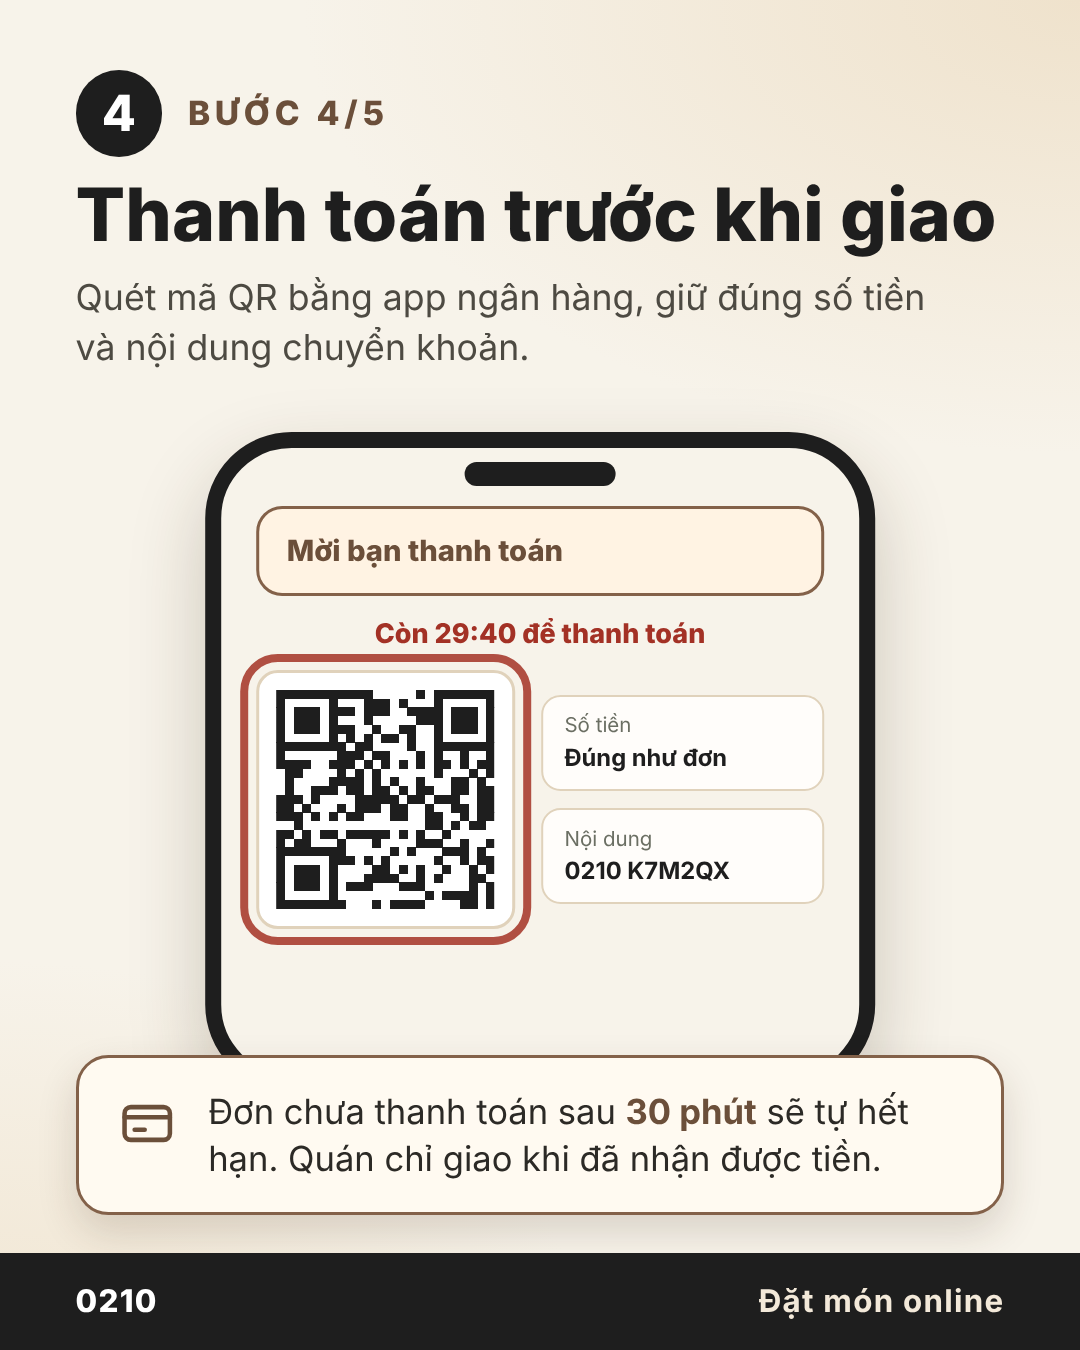
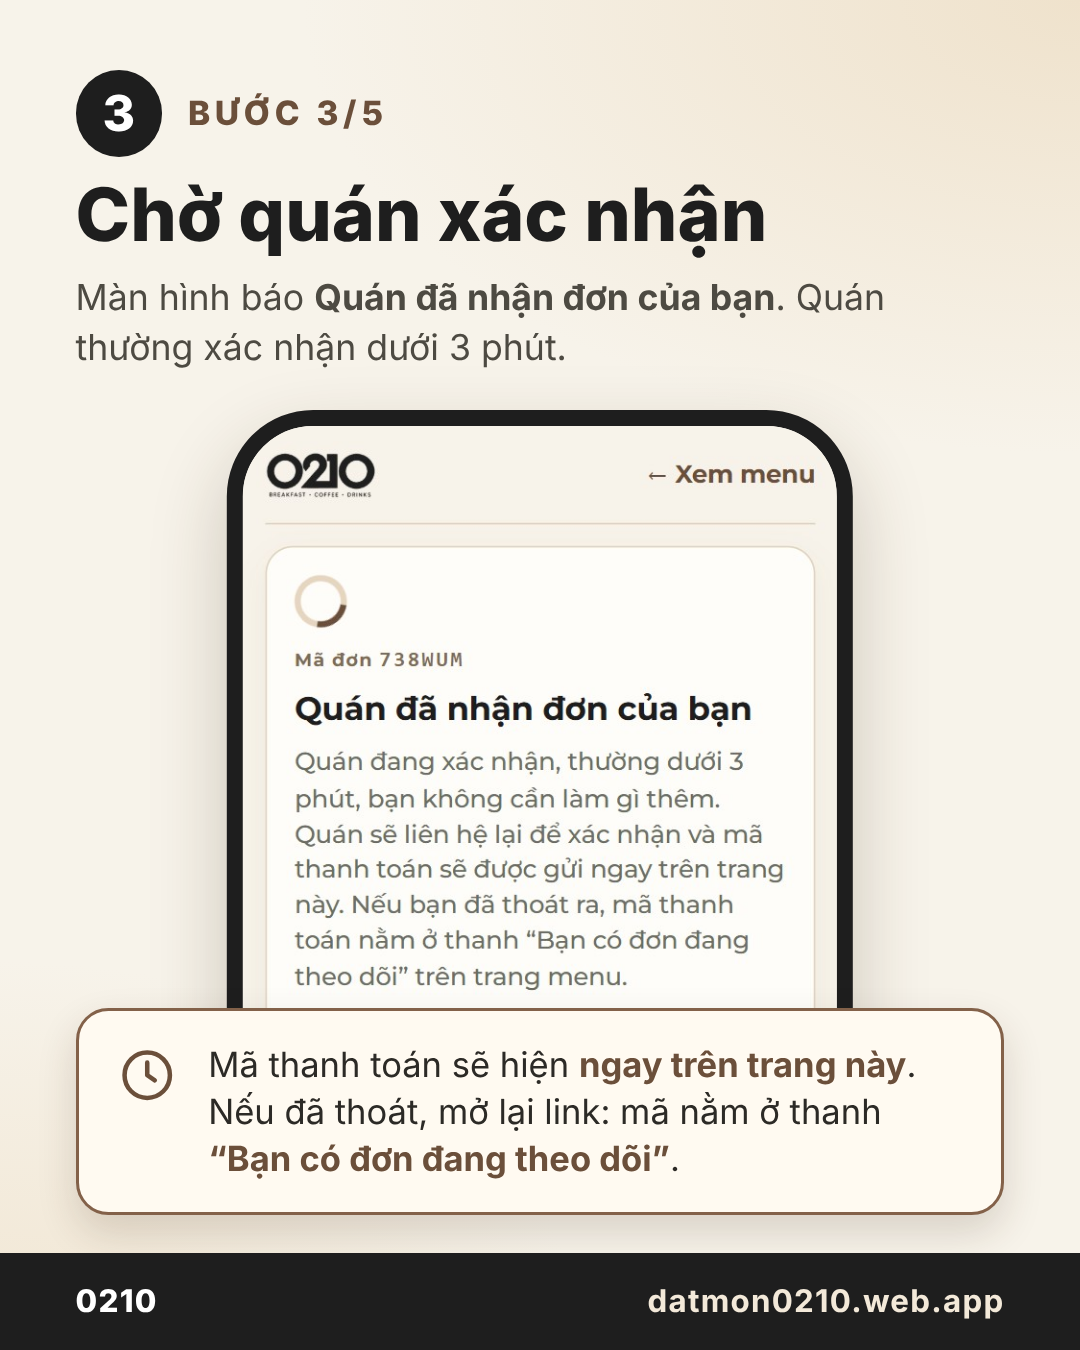
Hướng dẫn đặt món: dùng ảnh chụp giao diện thật của link đặt món; sửa nút Hướng dẫn tràn dòng khi có Lịch sử đơn
Claude-Session: https://claude.ai/code/session_01HiDfvM3Z7rjLptNeq3yxWC

diff --git a/web-order/public/huong-dan.html b/web-order/public/huong-dan.html
@@ -51,9 +51,11 @@
     .note p { margin: 0; font-size: 3.2cqw; line-height: 1.36; color: #2c2a26; }
     .note b { color: var(--accent); }
 
-    /* điện thoại (cắt ở đáy thẻ) */
-    .phone { position: absolute; left: 50%; transform: translateX(-50%); top: 40cqw; width: 62cqw; height: 61cqw; border-radius: 8cqw; border: 1.5cqw solid #1e1e1e; background: var(--bg); overflow: hidden; box-shadow: 0 3cqw 7cqw rgba(60, 40, 20, .22); }
-    .phone::before { content: ""; position: absolute; left: 50%; top: 1.3cqw; transform: translateX(-50%); width: 14cqw; height: 2.2cqw; border-radius: 2cqw; background: #1e1e1e; z-index: 3; }
+    /* điện thoại (cắt ở đáy thẻ); ảnh bên trong là chụp màn hình thật của trang đặt món */
+    .phone img { display: block; width: 100%; height: 100%; object-fit: cover; object-position: top; }
+    .note small { font-size: 2.6cqw; color: #6b6f63; }
+    .phone { position: absolute; left: 50%; transform: translateX(-50%); top: 38cqw; width: 58cqw; height: 64cqw; border-radius: 8cqw; border: 1.5cqw solid #1e1e1e; background: var(--bg); overflow: hidden; box-shadow: 0 3cqw 7cqw rgba(60, 40, 20, .22); }
+    .phone::before { content: none; }
     .ph { padding: 5.4cqw 3.2cqw 0; font-size: 2.5cqw; line-height: 1.3; display: grid; gap: 1.8cqw; }
     .ph-bar { display: flex; align-items: center; gap: 1.6cqw; }
     .ph-bar img { height: 4.2cqw; width: auto; }
@@ -164,117 +166,83 @@
         <div class="s-foot"><b>0210</b><span>datmon0210.web.app</span></div>
       </section>
 
-      <!-- 1 -->
-      <section class="slide" aria-label="Bước 1: Chọn món">
+            <section class="slide" aria-label="Bước 1: Chọn món">
         <div class="s-head">
           <div class="s-step"><i>1</i> BƯỚC 1/5</div>
           <h2 class="s-title">Chọn món bạn thích</h2>
-          <p class="s-sub">Mở link đặt món, chọn nhóm món rồi bấm <b>Thêm</b> ở món muốn gọi.</p>
+          <p class="s-sub">Mở link đặt món, chạm dấu <b>+</b> ở món muốn gọi. Bấm thêm lần nữa để tăng số lượng.</p>
         </div>
-        <div class="phone">
-          <div class="ph">
-            <div class="ph-bar"><img src="assets/logo.png" alt="" /><span>Lịch sử đơn</span></div>
-            <div class="ph-chips"><b class="on">Bán chạy</b><b>Cơm</b><b>Bún phở</b><b>Đồ uống</b></div>
-            <div class="dish"><div class="im"></div><div><h4>Cơm gà chiên mắm</h4><span class="sk w1"></span></div><span class="stp"><i>−</i>2<i>+</i></span></div>
-            <div class="dish"><div class="im"></div><div><h4>Cơm bò sốt tiêu</h4><span class="sk w1"></span></div><span class="add ring">Thêm</span></div>
-            <div class="dish"><div class="im"></div><div><h4>Trà chanh nha đam</h4><span class="sk w1"></span></div><span class="add">Thêm</span></div>
-            <div class="dish"><div class="im"></div><div><h4>Bạc xỉu</h4><span class="sk w1"></span></div><span class="add">Thêm</span></div>
-          </div>
-          <div class="cartbar"><div><small>2 món</small><b>Tạm tính</b></div><em class="ring">Xem giỏ &amp; đặt</em></div>
-        </div>
+        <div class="phone"><img src="assets/guide/shot-menu.jpg" alt="Trang menu của 0210 với món đã thêm vào giỏ" /></div>
         <div class="note"><svg viewBox="0 0 24 24" fill="none" stroke="currentColor" stroke-width="1.8" stroke-linecap="round" stroke-linejoin="round" aria-hidden="true"><circle cx="9" cy="20" r="1.3"/><circle cx="18" cy="20" r="1.3"/><path d="M3 4h3l2.4 11h10l2-8H7"/></svg><p>Chọn xong, bấm <b>Xem giỏ &amp; đặt</b> ở thanh dưới màn hình để kiểm tra lại đơn.</p></div>
-        <div class="s-foot"><b>0210</b><span>Đặt món online</span></div>
+        <div class="s-foot"><b>0210</b><span>datmon0210.web.app</span></div>
       </section>
 
-      <!-- 2 -->
-      <section class="slide" aria-label="Bước 2: Nhập thông tin và gửi đơn">
+      <section class="slide" aria-label="Bước 2: Nhập thông tin">
         <div class="s-head">
           <div class="s-step"><i>2</i> BƯỚC 2/5</div>
-          <h2 class="s-title">Nhập thông tin &amp; gửi đơn</h2>
-          <p class="s-sub">Điền tên, số điện thoại, chọn cách nhận món rồi bấm <b>Gửi đơn</b>.</p>
+          <h2 class="s-title">Nhập thông tin nhận món</h2>
+          <p class="s-sub">Điền tên, số điện thoại và chọn cách nhận món.</p>
         </div>
-        <div class="phone">
-          <div class="ph">
-            <div class="two"><div class="fld">Tên của bạn<div class="inp">Lan</div></div><div class="fld">Số điện thoại<div class="inp">0912 345 678</div></div></div>
-            <div class="fld">Nhận món<div class="radios"><span>Mang đi / tại quán</span><span class="on ring">Giao tận nơi</span></div></div>
-            <div class="fld">Địa chỉ giao hàng<div class="inp">Số nhà, đường, phường/xã…</div></div>
-            <div class="send ring">Gửi đơn</div>
-          </div>
-        </div>
-        <div class="note"><svg viewBox="0 0 24 24" fill="none" stroke="currentColor" stroke-width="1.8" stroke-linecap="round" stroke-linejoin="round" aria-hidden="true"><path d="M12 3a9 9 0 1 0 0 18 9 9 0 0 0 0-18zM12 8v5M12 16.5v.1"/></svg><p>Chưa phải trả tiền ngay. <b>Gửi đơn</b> chỉ là báo cho quán biết bạn muốn đặt những món gì.</p></div>
-        <div class="s-foot"><b>0210</b><span>Đặt món online</span></div>
+        <div class="phone"><img src="assets/guide/shot-form-1.jpg" alt="Form nhập tên, số điện thoại, hình thức nhận món" /></div>
+        <div class="note"><svg viewBox="0 0 24 24" fill="none" stroke="currentColor" stroke-width="1.8" stroke-linecap="round" stroke-linejoin="round" aria-hidden="true"><circle cx="12" cy="12" r="9"/><path d="M12 8v5M12 16.5v.1"/></svg><p>Chọn <b>Giao tận nơi</b> thì nhập thêm địa chỉ. Chọn <b>Mang đi / tại quán</b> thì không cần địa chỉ.</p></div>
+        <div class="s-foot"><b>0210</b><span>datmon0210.web.app</span></div>
       </section>
 
-      <!-- 3 -->
-      <section class="slide" aria-label="Bước 3: Quán xác nhận đơn">
+      <section class="slide" aria-label="Bước 2: Gửi đơn">
+        <div class="s-head">
+          <div class="s-step"><i>2</i> BƯỚC 2/5 · TIẾP</div>
+          <h2 class="s-title">Đồng ý &amp; bấm Gửi đơn</h2>
+          <p class="s-sub">Tích đồng ý chính sách rồi bấm nút <b>Gửi đơn</b> màu đen.</p>
+        </div>
+        <div class="phone"><img src="assets/guide/shot-form-2.jpg" alt="Ô đồng ý và nút Gửi đơn" /></div>
+        <div class="note"><svg viewBox="0 0 24 24" fill="none" stroke="currentColor" stroke-width="1.8" stroke-linecap="round" stroke-linejoin="round" aria-hidden="true"><circle cx="12" cy="12" r="9"/><path d="M12 8v5M12 16.5v.1"/></svg><p>Chưa phải trả tiền ngay. <b>Gửi đơn</b> chỉ là báo cho quán biết bạn muốn đặt những món gì.</p></div>
+        <div class="s-foot"><b>0210</b><span>datmon0210.web.app</span></div>
+      </section>
+
+      <section class="slide" aria-label="Bước 3: Chờ quán xác nhận">
         <div class="s-head">
           <div class="s-step"><i>3</i> BƯỚC 3/5</div>
           <h2 class="s-title">Chờ quán xác nhận</h2>
-          <p class="s-sub">Quán thường xác nhận trong vòng 3 phút. Bạn không cần làm gì thêm.</p>
+          <p class="s-sub">Màn hình báo <b>Quán đã nhận đơn của bạn</b>. Quán thường xác nhận dưới 3 phút.</p>
         </div>
-        <div class="phone">
-          <div class="ph">
-            <div class="status">Quán đã nhận đơn của bạn</div>
-            <div class="code">#K7M2QX</div>
-            <div><div class="prog"><i class="now"></i><u></u><i></i><u></u><i></i><u></u><i></i></div><div class="prog-l"><span>Đã gửi</span><span>Thanh toán</span><span>Làm món</span><span>Giao</span></div></div>
-            <div class="row2"><span>Món</span><b>2 món</b></div>
-            <div class="row2"><span>Trạng thái</span><b>Chờ quán xác nhận</b></div>
-          </div>
-        </div>
-        <div class="note"><svg viewBox="0 0 24 24" fill="none" stroke="currentColor" stroke-width="1.8" stroke-linecap="round" stroke-linejoin="round" aria-hidden="true"><circle cx="12" cy="12" r="9"/><path d="M12 7v5l3 2"/></svg><p>Mã thanh toán sẽ hiện <b>ngay trên trang này</b>. Nếu đã thoát, mở lại link: đơn nằm trong <b>giỏ hàng</b> và ô <b>“Bạn đang có đơn theo dõi”</b>.</p></div>
-        <div class="s-foot"><b>0210</b><span>Đặt món online</span></div>
+        <div class="phone"><img src="assets/guide/shot-dang-cho.jpg" alt="Màn hình theo dõi đơn: quán đã nhận đơn" /></div>
+        <div class="note"><svg viewBox="0 0 24 24" fill="none" stroke="currentColor" stroke-width="1.8" stroke-linecap="round" stroke-linejoin="round" aria-hidden="true"><circle cx="12" cy="12" r="9"/><path d="M12 7v5l3 2"/></svg><p>Mã thanh toán sẽ hiện <b>ngay trên trang này</b>. Nếu đã thoát, mở lại link: mã nằm ở thanh <b>“Bạn có đơn đang theo dõi”</b>.</p></div>
+        <div class="s-foot"><b>0210</b><span>datmon0210.web.app</span></div>
       </section>
 
-      <!-- 4 -->
       <section class="slide" aria-label="Bước 4: Thanh toán">
         <div class="s-head">
           <div class="s-step"><i>4</i> BƯỚC 4/5</div>
           <h2 class="s-title">Thanh toán trước khi giao</h2>
           <p class="s-sub">Quét mã QR bằng app ngân hàng, giữ đúng số tiền và nội dung chuyển khoản.</p>
         </div>
-        <div class="phone">
-          <div class="ph">
-            <div class="status">Mời bạn thanh toán</div>
-            <div class="timer">Còn 29:40 để thanh toán</div>
-            <div class="payrow"><div class="qr ring"><svg id="qr" viewBox="0 0 25 25" shape-rendering="crispEdges" aria-label="Mã QR minh hoạ"></svg></div><div class="paybox"><div><small>Số tiền</small><b>Đúng như đơn</b></div><div><small>Nội dung</small><b>0210 K7M2QX</b></div></div></div>
-          </div>
-        </div>
-        <div class="note"><svg viewBox="0 0 24 24" fill="none" stroke="currentColor" stroke-width="1.8" stroke-linecap="round" stroke-linejoin="round" aria-hidden="true"><rect x="3" y="6" width="18" height="13" rx="2.5"/><path d="M3 10h18M7 15h4"/></svg><p>Đơn chưa thanh toán sau <b>30 phút</b> sẽ tự hết hạn. Quán chỉ giao khi đã nhận được tiền.</p></div>
-        <div class="s-foot"><b>0210</b><span>Đặt món online</span></div>
+        <div class="phone"><img src="assets/guide/shot-qr.jpg" alt="Màn hình thanh toán với mã QR và đồng hồ đếm ngược 30 phút" /></div>
+        <div class="note"><svg viewBox="0 0 24 24" fill="none" stroke="currentColor" stroke-width="1.8" stroke-linecap="round" stroke-linejoin="round" aria-hidden="true"><rect x="3" y="6" width="18" height="13" rx="2.5"/><path d="M3 10h18M7 15h4"/></svg><p>Đơn chưa thanh toán sau <b>30 phút</b> sẽ tự hết hạn. Quán chỉ giao khi đã nhận được tiền. <small>(Mã QR trong ảnh đã làm mờ.)</small></p></div>
+        <div class="s-foot"><b>0210</b><span>datmon0210.web.app</span></div>
       </section>
 
-      <!-- 5 -->
       <section class="slide" aria-label="Bước 5: Nhận món">
         <div class="s-head">
           <div class="s-step"><i>5</i> BƯỚC 5/5</div>
           <h2 class="s-title">Nhận món &amp; trả phí ship</h2>
-          <p class="s-sub">Quán nhận tiền, làm món và giao đến bạn. Theo dõi từng bước ngay trên trang.</p>
+          <p class="s-sub">Theo dõi từng bước ngay trên trang: đang làm món, đang giao, hoàn thành.</p>
         </div>
-        <div class="tl">
-          <div><i><svg viewBox="0 0 24 24" fill="none" stroke="currentColor" stroke-width="2" stroke-linecap="round" stroke-linejoin="round"><path d="M5 12.5l4.2 4.2L19 7"/></svg></i><p style="margin:0"><b>Quán đã nhận tiền</b><span>Quán bắt đầu chế biến món của bạn</span></p></div>
-          <div><i><svg viewBox="0 0 24 24" fill="none" stroke="currentColor" stroke-width="1.9" stroke-linecap="round" stroke-linejoin="round"><path d="M4 14h16a7 7 0 0 1-16 0zM8 11c0-2 1.6-3 4-3s4 1 4 3"/></svg></i><p style="margin:0"><b>Đang làm món</b><span>Món được làm ngay khi quán xác nhận</span></p></div>
-          <div><i><svg viewBox="0 0 24 24" fill="none" stroke="currentColor" stroke-width="1.9" stroke-linecap="round" stroke-linejoin="round"><circle cx="6" cy="17" r="3"/><circle cx="18" cy="17" r="3"/><path d="M9 17h6l3-7h-4M15 17l-3-6H8"/></svg></i><p style="margin:0"><b>Đang giao đến bạn</b><span>Tài xế giao tận nơi theo địa chỉ bạn đã nhập</span></p></div>
-          <div><i><svg viewBox="0 0 24 24" fill="none" stroke="currentColor" stroke-width="1.9" stroke-linecap="round" stroke-linejoin="round"><path d="M4 11l8-7 8 7v9H4zM10 20v-6h4v6"/></svg></i><p style="margin:0"><b>Nhận món</b><span>Kiểm tra món rồi thưởng thức</span></p></div>
-        </div>
+        <div class="phone"><img src="assets/guide/shot-dang-giao.jpg" alt="Màn hình theo dõi: đơn đang trên đường giao" /></div>
         <div class="note"><svg viewBox="0 0 24 24" fill="none" stroke="currentColor" stroke-width="1.8" stroke-linecap="round" stroke-linejoin="round" aria-hidden="true"><circle cx="6" cy="17" r="3"/><circle cx="18" cy="17" r="3"/><path d="M9 17h6l3-7h-4M15 17l-3-6H8"/></svg><p><b>Phí ship trả trực tiếp cho tài xế</b> khi nhận hàng, giống khi đặt qua Grab. Tiền món bạn đã thanh toán ở bước 4.</p></div>
-        <div class="s-foot"><b>0210</b><span>Đặt món online</span></div>
+        <div class="s-foot"><b>0210</b><span>datmon0210.web.app</span></div>
       </section>
 
-      <!-- Hỗ trợ -->
       <section class="slide" aria-label="Cần hỗ trợ">
         <div class="s-head">
           <div class="s-step"><i>?</i> CẦN HỖ TRỢ</div>
-          <h2 class="s-title">Cần sửa đơn hoặc hỏi quán?</h2>
-          <p class="s-sub">Quán luôn sẵn sàng hỗ trợ bạn, kể cả khi đơn đã được xác nhận.</p>
+          <h2 class="s-title">Cần hỗ trợ hoặc sửa đơn?</h2>
+          <p class="s-sub">Bấm nút xanh lá để <b>gọi quán</b>, nút xanh dương để <b>chat Messenger</b>.</p>
         </div>
-        <div class="help">
-          <div><span class="ic" style="background:#0866ff"><svg viewBox="0 0 24 24" fill="currentColor"><path d="M12 2C6.5 2 2 6.2 2 11.5c0 2.9 1.3 5.4 3.4 7.1V22l3.1-1.7c1 .3 2.4.5 3.5.5 5.5 0 10-4.2 10-9.3S17.500 2 12 2zm1 12.500-2.500-2.700L5.700 14.500l5.300-5.600 2.600 2.700 4.700-2.700z"/></svg></span><p style="margin:0"><b>Chat với quán qua Messenger</b><span>Bấm nút chat nổi trên trang đặt món, mã đơn được gắn sẵn</span></p></div>
-          <div><span class="ic" style="background:#2f6b3f"><svg viewBox="0 0 24 24" fill="currentColor"><path d="M6.600 10.800a15.100 15.100 0 0 0 6.600 6.600l2.200-2.200a1 1 0 0 1 1-.25c1.100.37 2.300.57 3.600.57a1 1 0 0 1 1 1V20a1 1 0 0 1-1 1C10.600 21 3 13.400 3 4a1 1 0 0 1 1-1h3.500a1 1 0 0 1 1 1c0 1.300.2 2.500.57 3.600a1 1 0 0 1-.25 1z"/></svg></span><p style="margin:0"><b>Gọi 0968 563 539</b><span>Bấm nút gọi nổi trên trang, số đã có sẵn, bạn chỉ cần bấm gọi</span></p></div>
-          <div><span class="ic" style="background:#6b4f3a"><svg viewBox="0 0 24 24" fill="none" stroke="currentColor" stroke-width="1.9" stroke-linecap="round" stroke-linejoin="round"><path d="M4 20h4l10-10-4-4L4 16zM13 7l4 4"/></svg></span><p style="margin:0"><b>Muốn sửa hoặc huỷ đơn?</b><span>Sau khi quán xác nhận, quán đã bắt đầu làm món. Hãy nhắn quán để được đồng ý thay đổi.</span></p></div>
-        </div>
-        
+        <div class="phone"><img src="assets/guide/shot-ho-tro.jpg" alt="Nút Gọi quán và Chat ngay nổi trên trang" /></div>
+        <div class="note"><svg viewBox="0 0 24 24" fill="none" stroke="currentColor" stroke-width="1.8" stroke-linecap="round" stroke-linejoin="round" aria-hidden="true"><path d="M4 5h16v11H9l-5 4z"/></svg><p>Sau khi quán xác nhận, quán đã bắt đầu làm món. Muốn sửa hoặc huỷ đơn, hãy nhắn quán để được đồng ý.</p></div>
         <div class="s-foot"><b>0210</b><span>datmon0210.web.app</span></div>
       </section>
+
     </div>
     <p class="hint">Vuốt ngang để xem các bước tiếp theo →</p>
 
@@ -302,22 +270,9 @@
   </div>
 
   <script>
-    /* QR minh hoạ: hoa văn giả lập, không quét được */
-    (function () {
-      var svg = document.getElementById("qr"); if (!svg) return;
-      var n = 25, seed = 210, out = "";
-      function rnd() { seed = (seed * 1103515245 + 12345) & 0x7fffffff; return seed / 0x7fffffff; }
-      function finder(x, y) { return (x < 7 && y < 7) || (x >= n - 7 && y < 7) || (x < 7 && y >= n - 7); }
-      function fin(x, y) { var fx = x >= n - 7 ? x - (n - 7) : x, fy = y >= n - 7 ? y - (n - 7) : y; var d = Math.max(Math.abs(fx - 3), Math.abs(fy - 3)); return d === 3 || d <= 1; }
-      for (var y = 0; y < n; y++) for (var x = 0; x < n; x++) {
-        var on = finder(x, y) ? fin(x, y) : rnd() > 0.52;
-        if (on) out += '<rect x="' + x + '" y="' + y + '" width="1.02" height="1.02" fill="#1e1e1e"/>';
-      }
-      svg.innerHTML = out;
-    })();
     (function () {
       var ul = document.getElementById("downloads"); if (!ul) return;
-      var names = ["Bìa", "Bước 1 · Chọn món", "Bước 2 · Nhập thông tin", "Bước 3 · Quán xác nhận", "Bước 4 · Thanh toán", "Bước 5 · Nhận món", "Cần hỗ trợ"];
+      var names = ["Bìa", "Bước 1 · Chọn món", "Bước 2 · Nhập thông tin", "Bước 2 · Gửi đơn", "Bước 3 · Quán xác nhận", "Bước 4 · Thanh toán", "Bước 5 · Nhận món", "Cần hỗ trợ"];
       ul.innerHTML = names.map(function (t, i) { return '<li><a href="assets/guide/huong-dan-' + i + '.png" target="_blank" rel="noopener">' + t + '</a></li>'; }).join("");
     })();
   </script>

diff --git a/web-order/public/index.html b/web-order/public/index.html
@@ -61,7 +61,7 @@
           <p class="motto" aria-hidden="true"><span>Good food</span><span>Good people</span><span>Good day</span></p>
           <h1 id="shop-name" class="sr-only">0210</h1>
           <p class="tagline sr-only" id="shop-tagline" hidden></p>
-          <a class="pill" id="open-guide" href="huong-dan"><svg viewBox="0 0 24 24" width="16" height="16" aria-hidden="true"><path fill="none" stroke="currentColor" stroke-width="1.7" stroke-linecap="round" stroke-linejoin="round" d="M12 3a9 9 0 1 0 0 18 9 9 0 0 0 0-18zM9.5 9.500a2.500 2.500 0 1 1 3.500 2.300c-.7.4-1 .9-1 1.700M12 17v.1"/></svg><span>Hướng dẫn</span></a>
+          <a class="pill" id="open-guide" href="huong-dan" aria-label="Hướng dẫn đặt món"><svg viewBox="0 0 24 24" width="16" height="16" aria-hidden="true"><path fill="none" stroke="currentColor" stroke-width="1.7" stroke-linecap="round" stroke-linejoin="round" d="M12 3a9 9 0 1 0 0 18 9 9 0 0 0 0-18zM9.5 9.500a2.500 2.500 0 1 1 3.500 2.300c-.7.4-1 .9-1 1.700M12 17v.1"/></svg><span>Hướng dẫn</span></a>
           <button type="button" class="pill" id="open-history" hidden><svg viewBox="0 0 24 24" width="16" height="16" aria-hidden="true"><path fill="none" stroke="currentColor" stroke-width="1.7" stroke-linecap="round" stroke-linejoin="round" d="M6 3h12v18l-3-2-3 2-3-2-3 2zM9 8h6M9 12h6"/></svg><span>Lịch sử đơn</span></button>
         </div>
         <p class="shop-addr"><svg viewBox="0 0 24 24" width="14" height="14" aria-hidden="true"><path fill="none" stroke="currentColor" stroke-width="1.8" stroke-linecap="round" stroke-linejoin="round" d="M12 21s7-6.2 7-11.5A7 7 0 0 0 5 9.5C5 14.8 12 21 12 21zM12 12a2.5 2.5 0 1 0 0-5 2.5 2.5 0 0 0 0 5z"/></svg><span>LK 02-10 Hoàng Huy Riverside, Hồng Bàng, Hải Phòng</span></p>

diff --git a/web-order/public/order.css b/web-order/public/order.css
@@ -493,3 +493,4 @@ body.has-cart .call-fab { bottom: calc(158px + env(safe-area-inset-bottom, 0px))
 
 #open-guide { text-decoration: none; }
 .hero-head .pill + .pill { margin-left: 0; }
+@media (max-width: 440px) { .hero-head:has(#open-history:not([hidden])) #open-guide span { display: none; } .hero-head:has(#open-history:not([hidden])) #open-guide { padding: 8px 10px; } }
